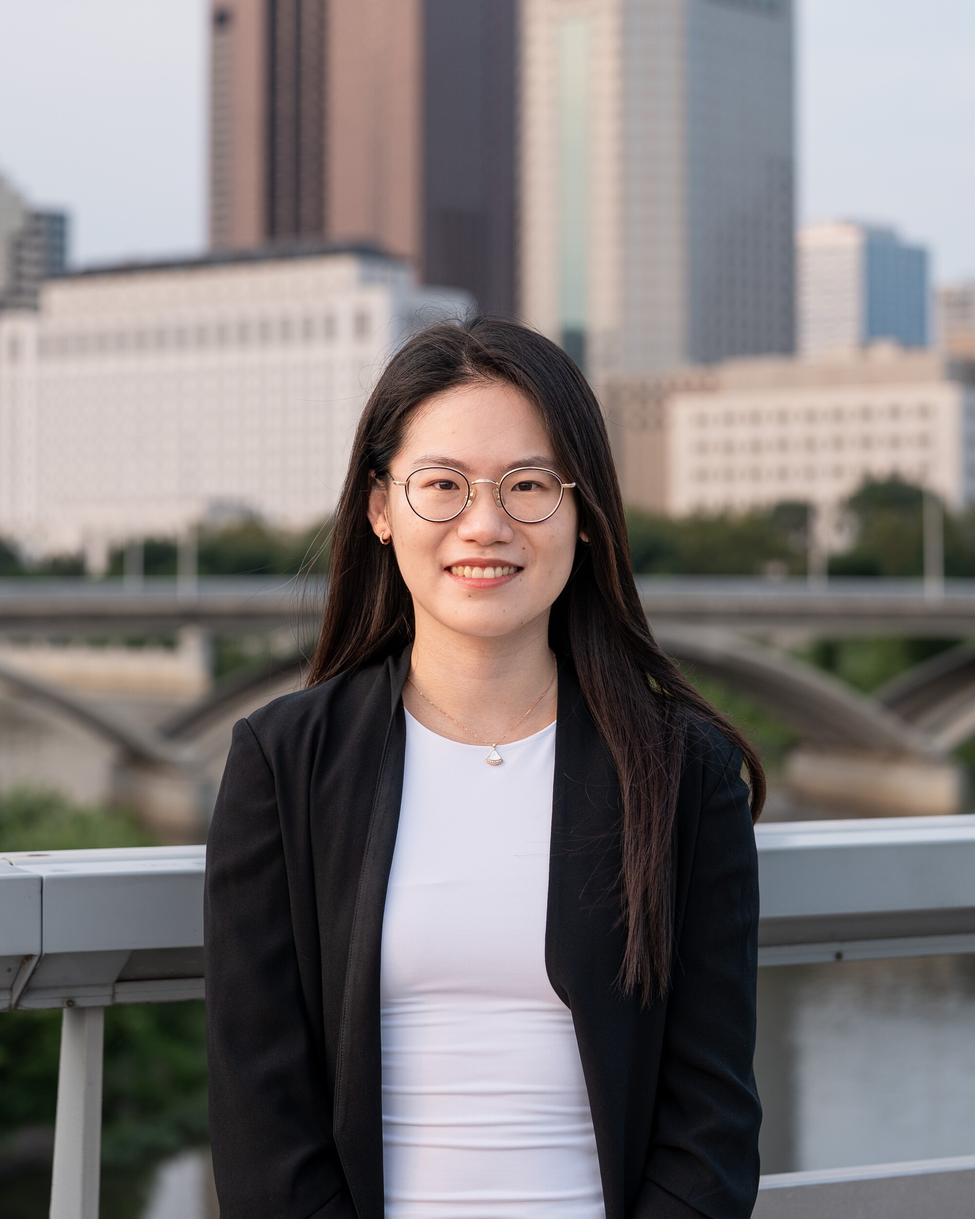
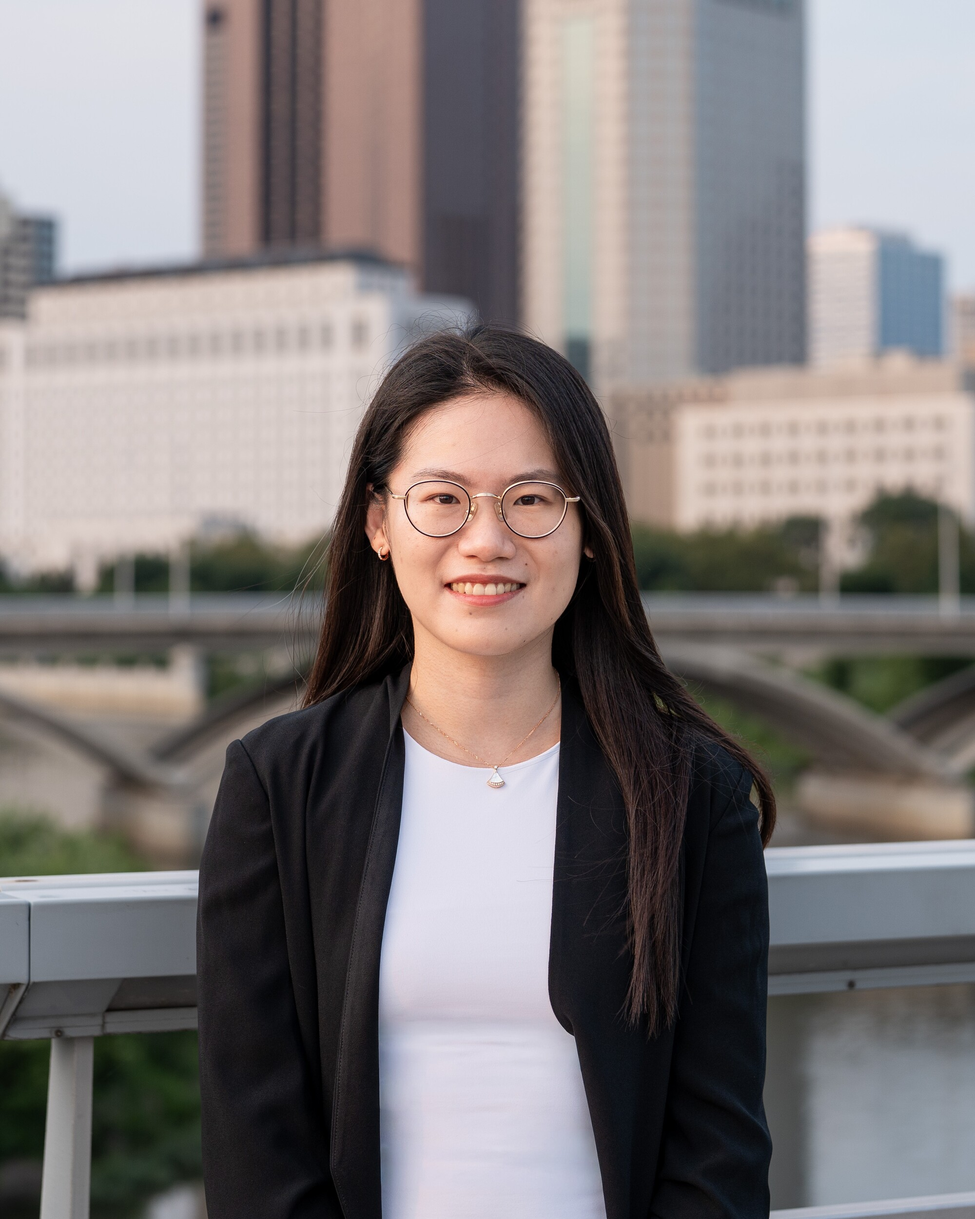
Update profile photo; add a bonus page and widen photo search
Regenerate the profile photo from the recropped source, again at
2000x2500 so saving the image still yields a print-usable file.

Add one more hidden bonus page, and let the photography page answer to
"photo" and "photos" alongside its full name.

diff --git a/_sass/_base.scss b/_sass/_base.scss
@@ -545,6 +545,13 @@ footer.sticky-bottom {
   font-size: 0.9rem;
 }
 
+// Tall multi-panel illustration: cap the width so the panels stay a readable
+// size on wide screens instead of stretching the full content column.
+.oddities-figure {
+  max-width: 620px;
+  margin: 0 auto;
+}
+
 @media (prefers-reduced-motion: reduce) {
   .bonus-title {
     animation: none;

diff --git a/_pages/eight_oddities.md b/_pages/eight_oddities.md
@@ -1,0 +1,40 @@
+---
+layout: default
+permalink: /eight-oddities/
+title: The Eight Oddities of Columbus
+# The Chinese sits in the description so ninja-keys' own matcher, which scores
+# against title plus description, keeps this result when 八大怪 is typed.
+description: 八大怪 — the eight oddities of Columbus, illustrated.
+nav: false
+sitemap: false
+bonus: true
+# Exact words that reveal this page in search (case-insensitive).
+search_terms: [八大怪, eight oddities, oddities]
+---
+
+<div class="post">
+  <header class="post-header">
+    <h1 class="post-title">The Eight Oddities of Columbus</h1>
+    <p class="post-description">八大怪</p>
+  </header>
+
+  <article>
+    <div class="oddities-figure">
+      {% capture sizes %}(min-width: {{ site.max_width }}) {{ site.max_width | minus: 30 }}px, 95vw{% endcapture %}
+      {%
+        include figure.liquid
+        loading="eager"
+        path="assets/img/image_8oddity.png"
+        class="img-fluid rounded z-depth-1"
+        sizes=sizes
+        alt="Eight illustrated panels of Columbus life in Ohio State colours: a student nursing a sore foot, two horses in Ohio State blankets smoking pipes, someone reclining on a barbell bench, a child glaring at a plate of lettuce, a figure brooding over a broken heart, someone devouring a burger and fries, a monkey eating takeout surrounded by delivery bags, and a macaw contemplating a brain."
+        cache_bust=true
+      %}
+    </div>
+
+    <p class="bonus-back">
+      <a href="{{ '/' | relative_url }}">← back to the serious pages</a>
+    </p>
+
+  </article>
+</div>

diff --git a/_pages/photography.md b/_pages/photography.md
@@ -8,7 +8,7 @@ sitemap: false
 bonus: true
 search_title: 📷 Photography
 # Exact words that reveal this page in search (case-insensitive).
-search_terms: [photography]
+search_terms: [photography, photo, photos]
 ---
 
 <div class="post">
